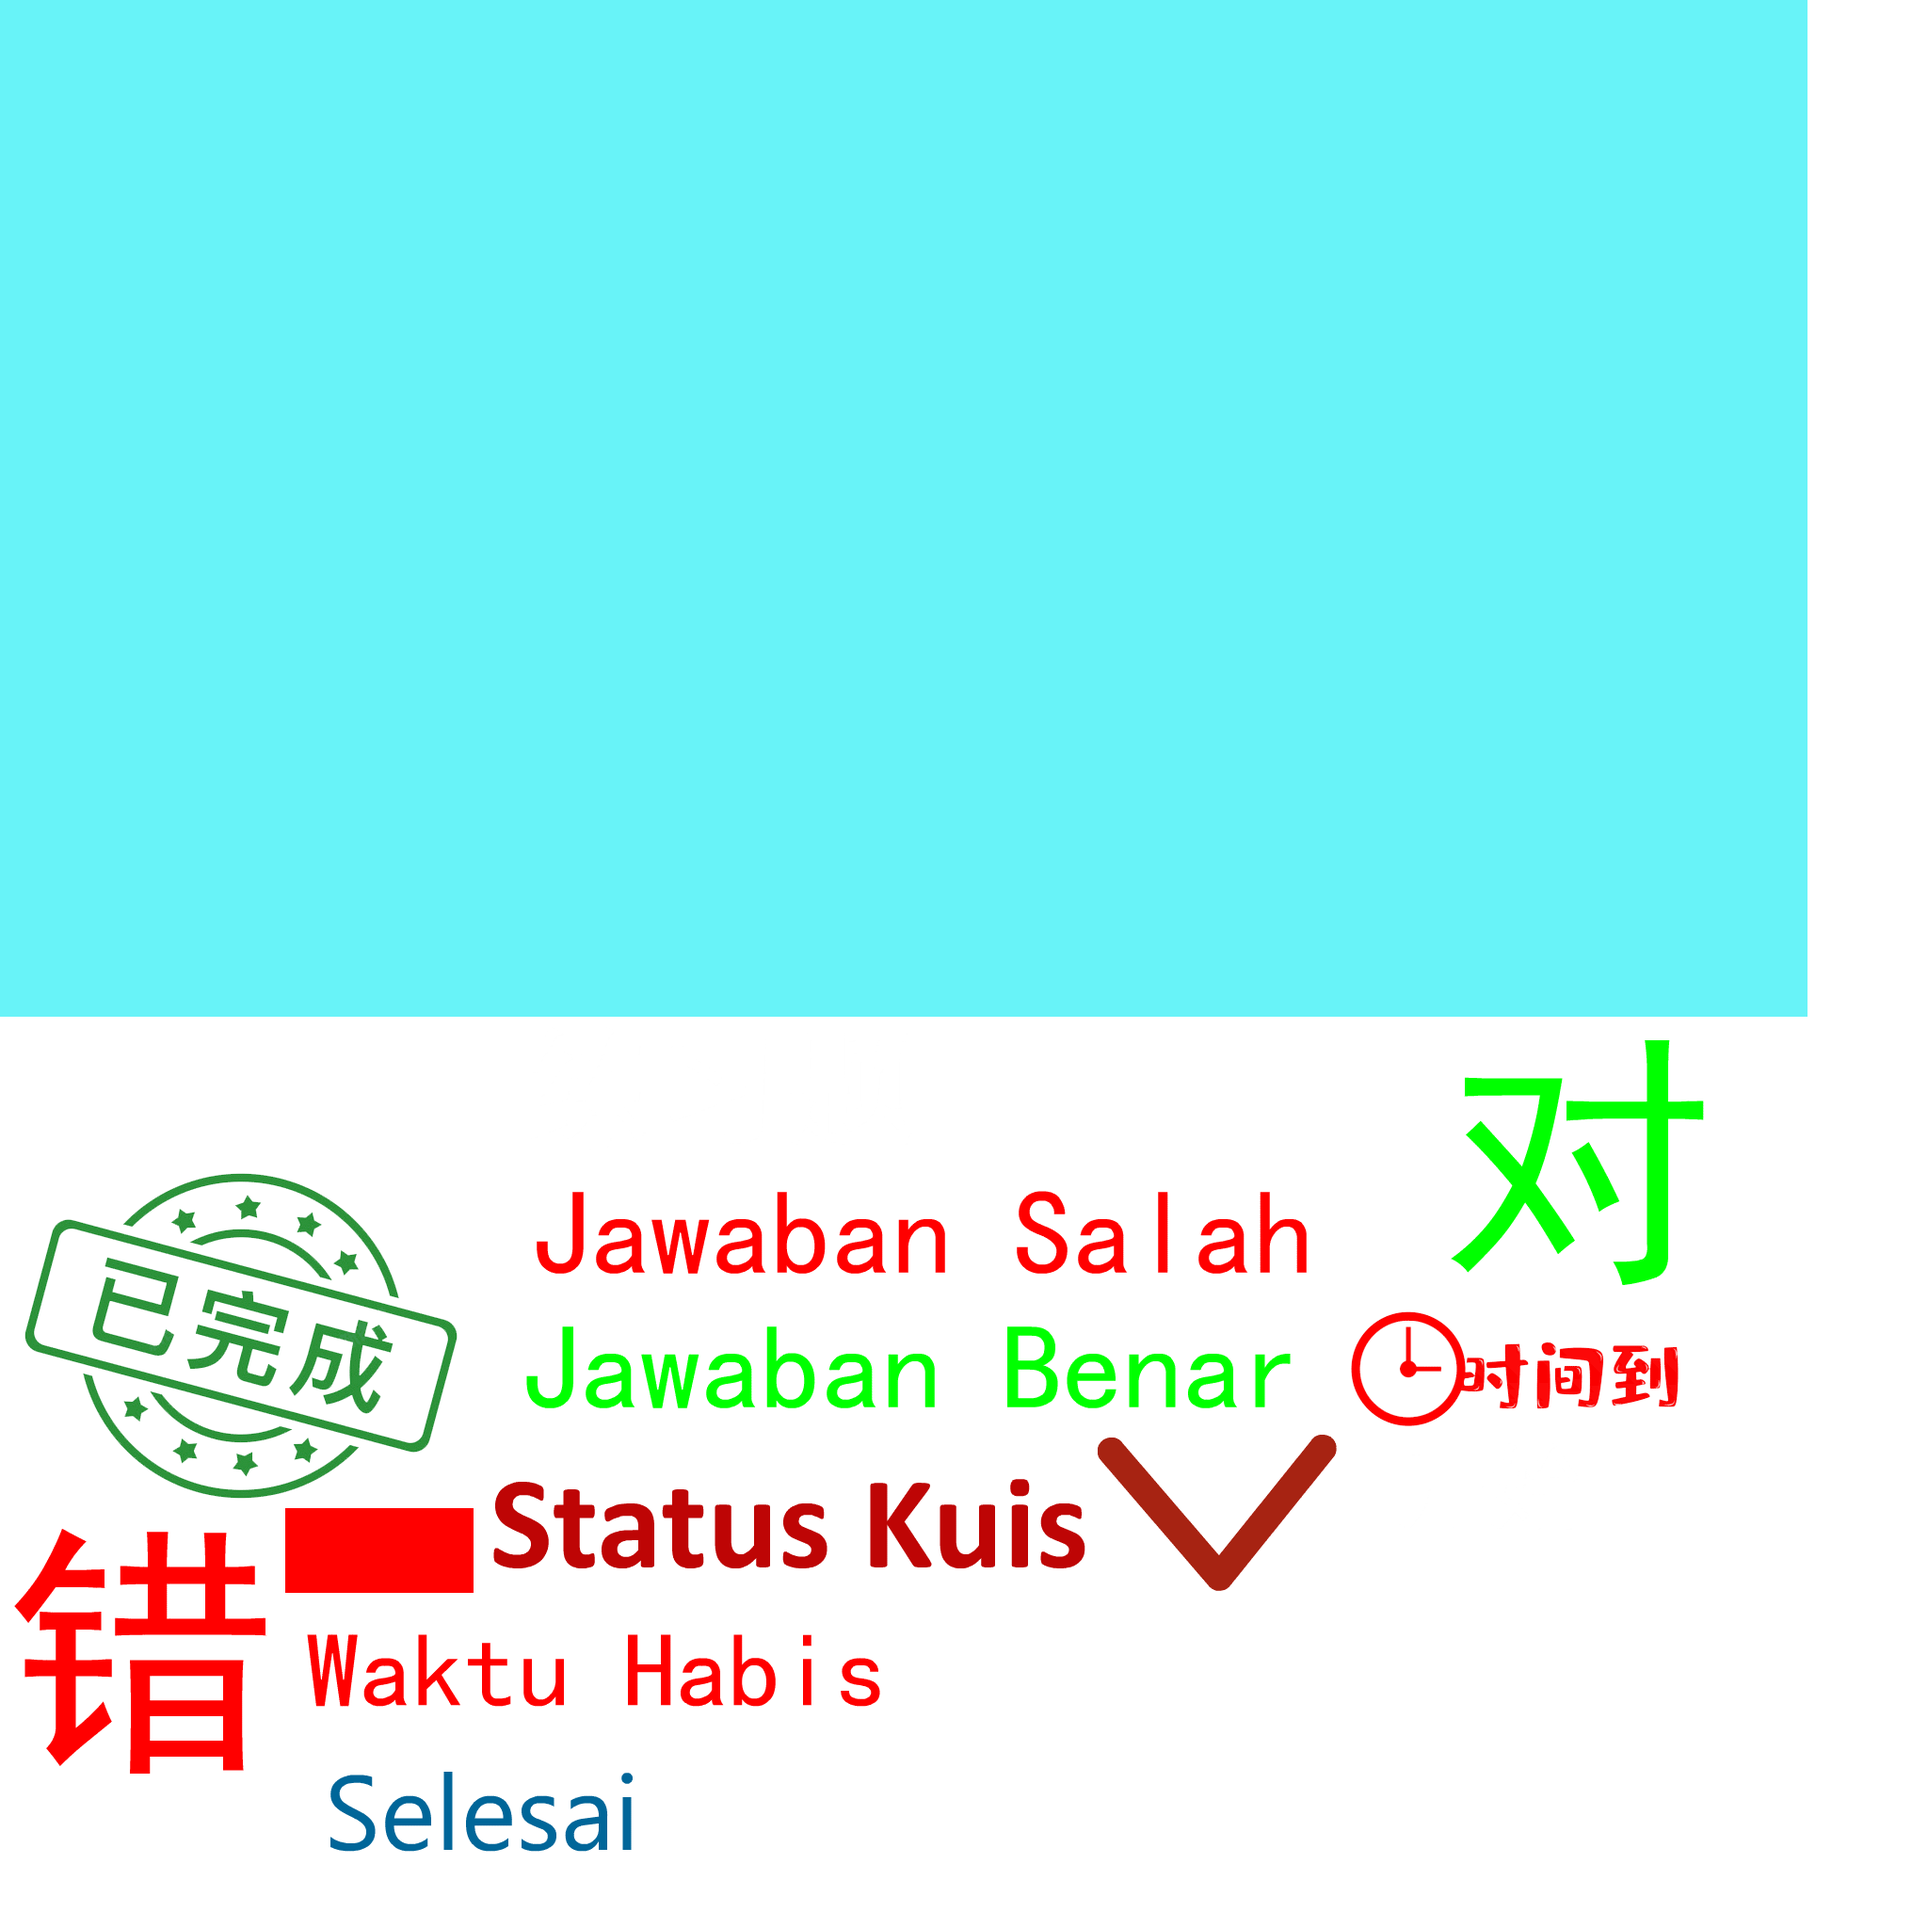
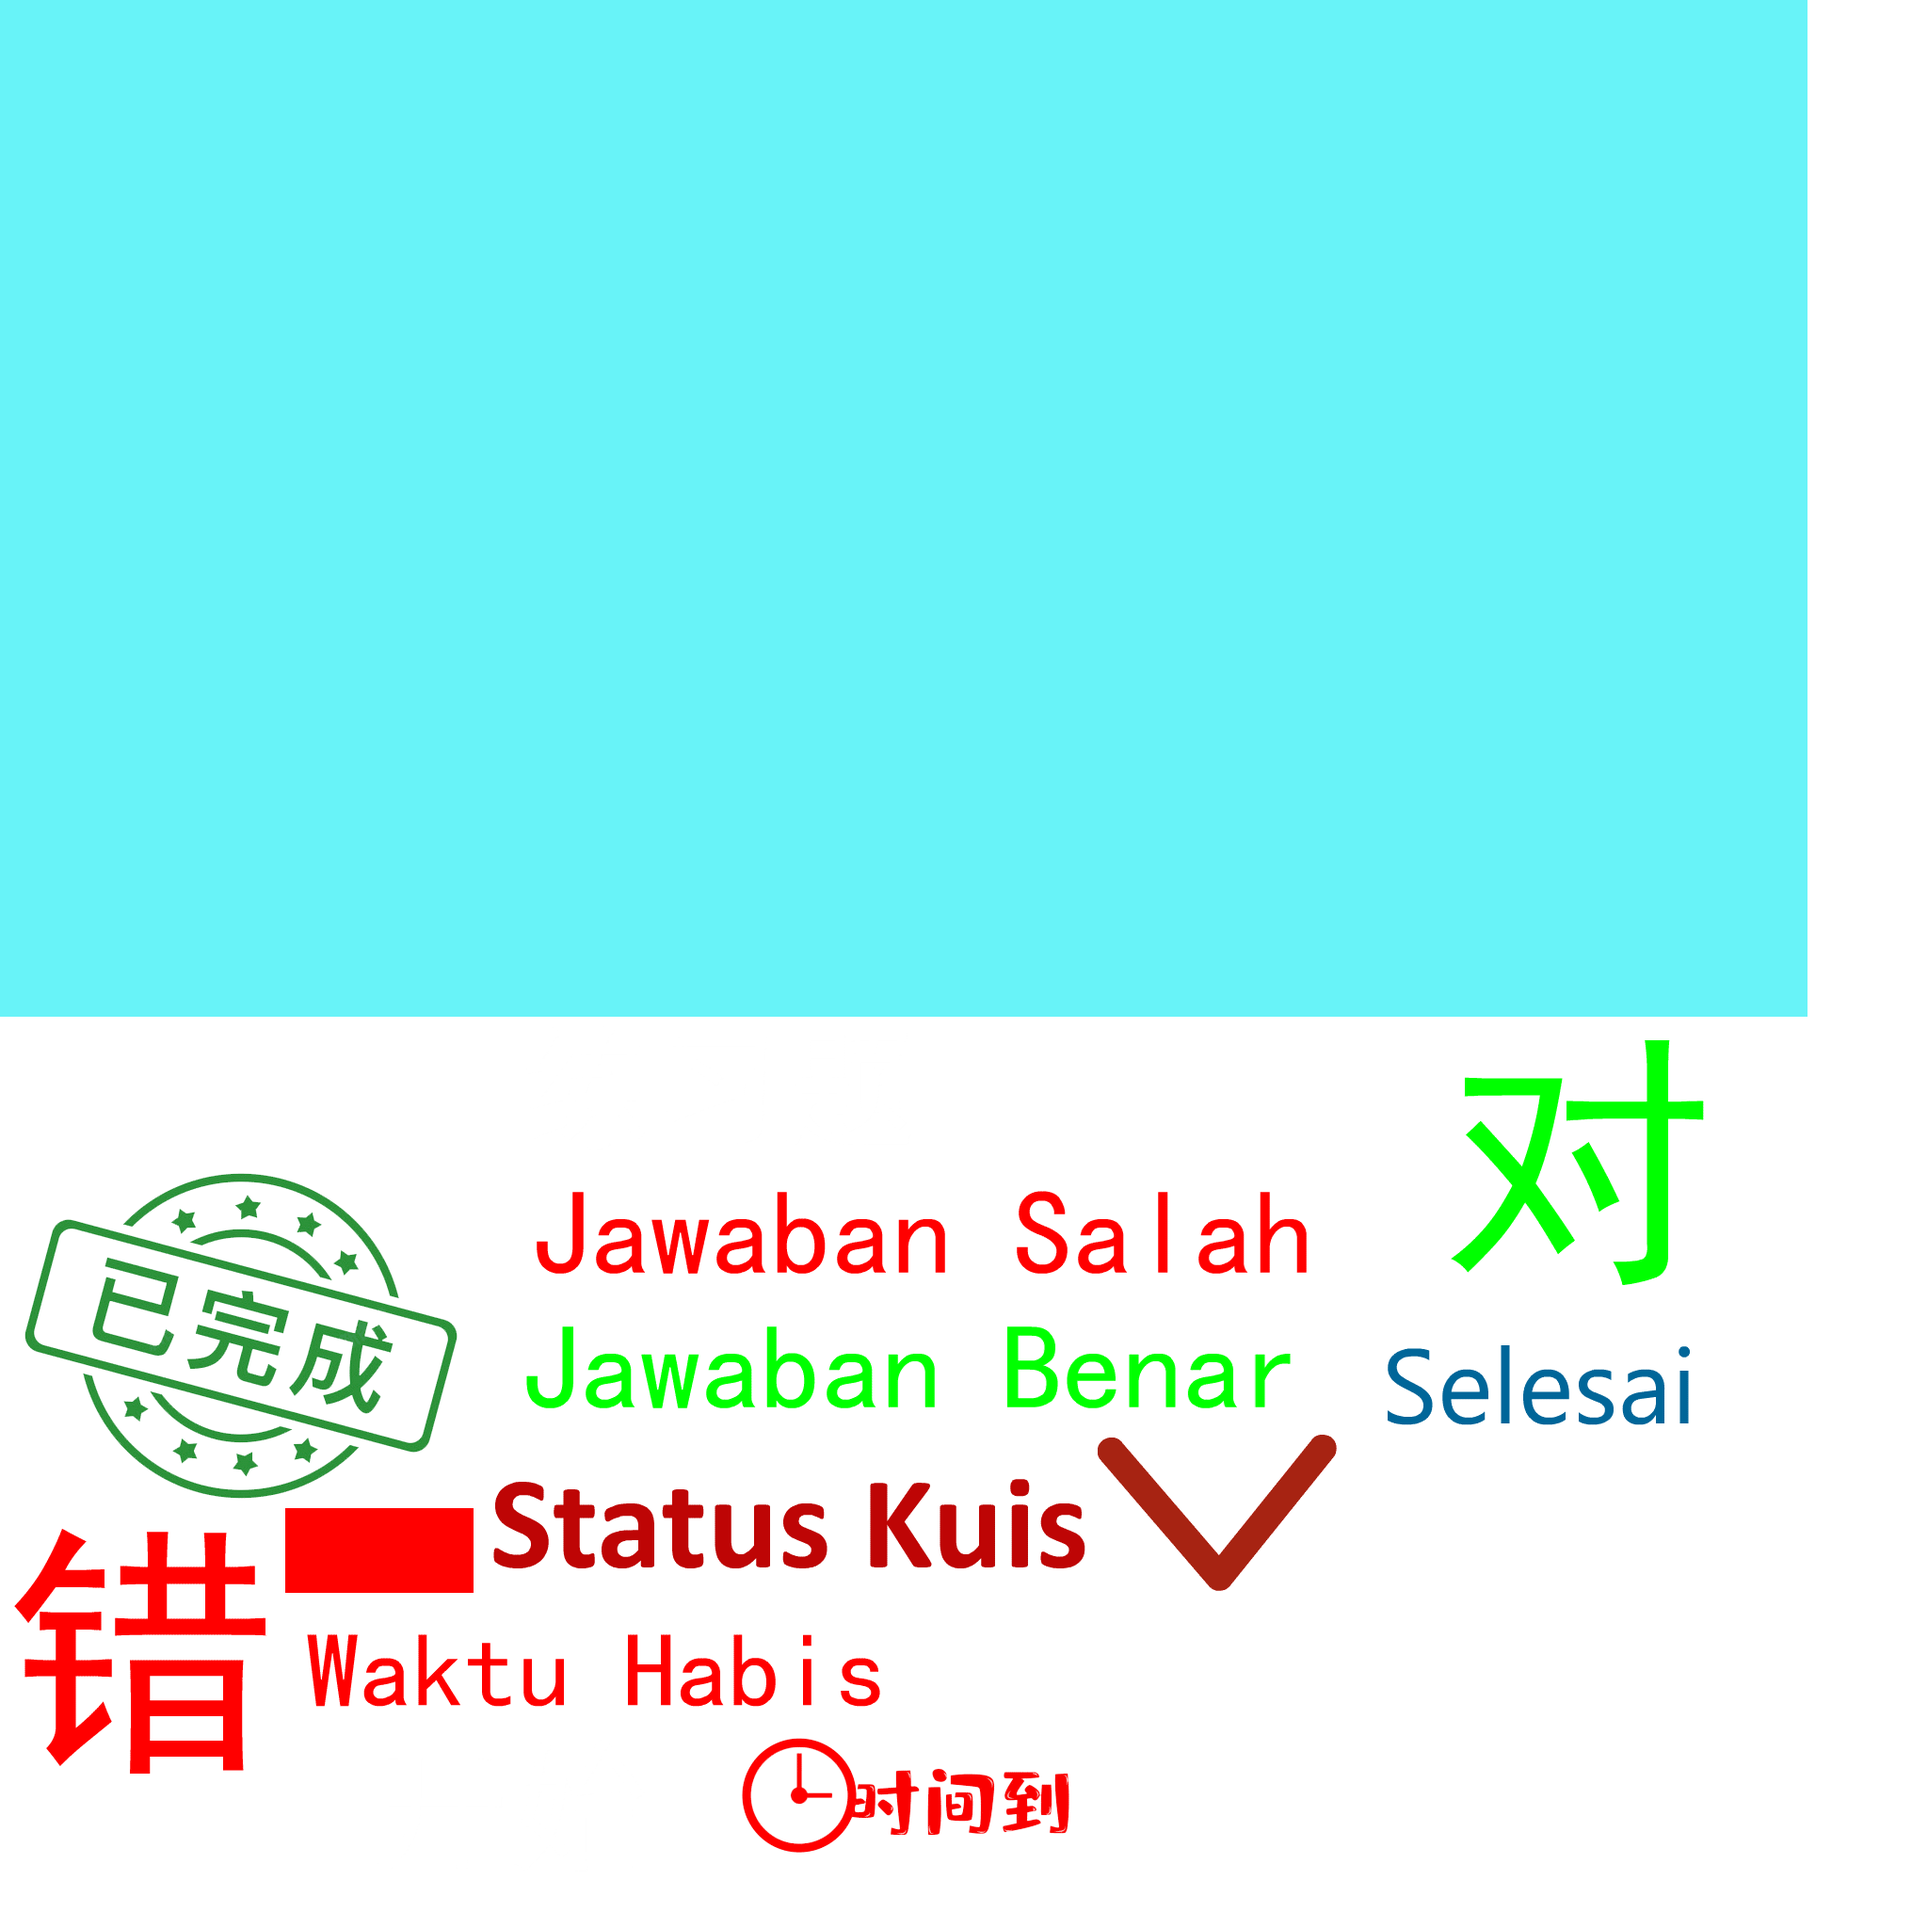
Add files via upload

Changed region(s): [[0.6875, 0.6562, 0.875, 0.75], [0.375, 0.9062, 0.5625, 0.9688], [0.1562, 0.9062, 0.3438, 0.9688]]

diff --git a/Soal音.js b/Soal音.js
@@ -3,7 +3,7 @@
 var p; // shortcut to reference prototypes
 var lib={};var ss={};var img={};
 lib.ssMetadata = [
-		{name:"Soal音_atlas_1", frames: [[1422,1525,316,112],[1166,1524,254,166],[514,1524,650,185],[303,1838,419,162],[303,1711,663,125],[514,1238,932,141],[0,1602,301,301],[514,1381,910,141],[1526,1082,301,301],[0,1082,1524,154],[303,1602,200,90],[0,0,1920,1080],[0,1238,512,362],[1426,1385,369,138]]}
+		{name:"Soal音_atlas_1", frames: [[303,1838,474,168],[1166,1524,254,166],[514,1524,650,185],[1426,1385,419,162],[303,1711,663,125],[514,1238,932,141],[0,1602,301,301],[514,1381,910,141],[1526,1082,301,301],[0,1082,1524,154],[303,1602,200,90],[0,0,1920,1080],[0,1238,512,362],[779,1838,369,138]]}
 ];
 
 
@@ -27,70 +27,70 @@ lib.ssMetadata = [
 
 
 
-(lib.CachedBmp_10 = function() {
+(lib.CachedBmp_20 = function() {
 	this.initialize(ss["Soal音_atlas_1"]);
 	this.gotoAndStop(0);
 }).prototype = p = new cjs.Sprite();
 
 
 
-(lib.CachedBmp_9 = function() {
+(lib.CachedBmp_19 = function() {
 	this.initialize(ss["Soal音_atlas_1"]);
 	this.gotoAndStop(1);
 }).prototype = p = new cjs.Sprite();
 
 
 
-(lib.CachedBmp_8 = function() {
+(lib.CachedBmp_18 = function() {
 	this.initialize(ss["Soal音_atlas_1"]);
 	this.gotoAndStop(2);
 }).prototype = p = new cjs.Sprite();
 
 
 
-(lib.CachedBmp_7 = function() {
+(lib.CachedBmp_17 = function() {
 	this.initialize(ss["Soal音_atlas_1"]);
 	this.gotoAndStop(3);
 }).prototype = p = new cjs.Sprite();
 
 
 
-(lib.CachedBmp_6 = function() {
+(lib.CachedBmp_16 = function() {
 	this.initialize(ss["Soal音_atlas_1"]);
 	this.gotoAndStop(4);
 }).prototype = p = new cjs.Sprite();
 
 
 
-(lib.CachedBmp_5 = function() {
+(lib.CachedBmp_15 = function() {
 	this.initialize(ss["Soal音_atlas_1"]);
 	this.gotoAndStop(5);
 }).prototype = p = new cjs.Sprite();
 
 
 
-(lib.CachedBmp_4 = function() {
+(lib.CachedBmp_14 = function() {
 	this.initialize(ss["Soal音_atlas_1"]);
 	this.gotoAndStop(6);
 }).prototype = p = new cjs.Sprite();
 
 
 
-(lib.CachedBmp_3 = function() {
+(lib.CachedBmp_13 = function() {
 	this.initialize(ss["Soal音_atlas_1"]);
 	this.gotoAndStop(7);
 }).prototype = p = new cjs.Sprite();
 
 
 
-(lib.CachedBmp_2 = function() {
+(lib.CachedBmp_12 = function() {
 	this.initialize(ss["Soal音_atlas_1"]);
 	this.gotoAndStop(8);
 }).prototype = p = new cjs.Sprite();
 
 
 
-(lib.CachedBmp_1 = function() {
+(lib.CachedBmp_11 = function() {
 	this.initialize(ss["Soal音_atlas_1"]);
 	this.gotoAndStop(9);
 }).prototype = p = new cjs.Sprite();
@@ -153,8 +153,8 @@ if (reversed == null) { reversed = false; }
 	cjs.MovieClip.apply(this,[props]);
 
 	// Layer_3
-	this.instance = new lib.CachedBmp_10();
-	this.instance.setTransform(-78.2,-29.85,0.5,0.5);
+	this.instance = new lib.CachedBmp_20();
+	this.instance.setTransform(-78.15,-29.8,0.3333,0.3333);
 
 	this.timeline.addTween(cjs.Tween.get(this.instance).wait(3));
 
@@ -289,7 +289,7 @@ if (reversed == null) { reversed = false; }
 	this.timeline.addTween(cjs.Tween.get({}).to({state:[{t:this.shape_2},{t:this.shape_1},{t:this.shape}]}).to({state:[{t:this.shape_4},{t:this.shape_1},{t:this.shape_3}]},1).to({state:[{t:this.shape_6},{t:this.shape_1},{t:this.shape_5}]},1).to({state:[{t:this.shape_8},{t:this.shape_1},{t:this.shape_7}]},1).to({state:[{t:this.shape_10},{t:this.shape_1},{t:this.shape_9}]},1).to({state:[{t:this.shape_12},{t:this.shape_1},{t:this.shape_11}]},1).to({state:[{t:this.shape_14},{t:this.shape_1},{t:this.shape_13}]},1).to({state:[{t:this.shape_16},{t:this.shape_1},{t:this.shape_15}]},1).to({state:[{t:this.shape_18},{t:this.shape_1},{t:this.shape_17}]},1).to({state:[{t:this.shape_20},{t:this.shape_1},{t:this.shape_19}]},1).to({state:[{t:this.shape_22},{t:this.shape_1},{t:this.shape_21}]},1).to({state:[{t:this.shape_24},{t:this.shape_1},{t:this.shape_23}]},1).to({state:[{t:this.shape_26},{t:this.shape_1},{t:this.shape_25}]},1).wait(1));
 
 	// Layer_2
-	this.instance = new lib.CachedBmp_9();
+	this.instance = new lib.CachedBmp_19();
 	this.instance.setTransform(-38.75,-44.6,0.3042,0.3042);
 
 	this.timeline.addTween(cjs.Tween.get(this.instance).wait(13));
@@ -407,25 +407,25 @@ if (reversed == null) { reversed = false; }
 	cjs.MovieClip.apply(this,[props]);
 
 	// Layer_2
-	this.instance = new lib.CachedBmp_3();
+	this.instance = new lib.CachedBmp_13();
 	this.instance.setTransform(-137.55,50.15,0.3125,0.3125);
 
-	this.instance_1 = new lib.CachedBmp_2();
+	this.instance_1 = new lib.CachedBmp_12();
 	this.instance_1.setTransform(-39.15,-70.2,0.3125,0.3125);
 
-	this.instance_2 = new lib.CachedBmp_5();
+	this.instance_2 = new lib.CachedBmp_15();
 	this.instance_2.setTransform(-141.15,49.25,0.3125,0.3125);
 
-	this.instance_3 = new lib.CachedBmp_4();
+	this.instance_3 = new lib.CachedBmp_14();
 	this.instance_3.setTransform(-39.15,-70.2,0.3125,0.3125);
 
-	this.instance_4 = new lib.CachedBmp_6();
+	this.instance_4 = new lib.CachedBmp_16();
 	this.instance_4.setTransform(-92.05,58.3,0.3125,0.3125);
 
 	this.instance_5 = new lib.waktuhabis();
 	this.instance_5.setTransform(-151,-73,0.8287,0.8505);
 
-	this.instance_6 = new lib.CachedBmp_7();
+	this.instance_6 = new lib.CachedBmp_17();
 	this.instance_6.setTransform(-63.55,52,0.3125,0.3125);
 
 	this.instance_7 = new lib.selesai();
@@ -445,7 +445,7 @@ if (reversed == null) { reversed = false; }
 	this.timeline.addTween(cjs.Tween.get({}).to({state:[]}).to({state:[{t:this.shape_1},{t:this.shape}]},1).wait(4));
 
 	// Layer_1
-	this.instance_8 = new lib.CachedBmp_8();
+	this.instance_8 = new lib.CachedBmp_18();
 	this.instance_8.setTransform(-93.3,-33,0.3125,0.3125);
 
 	this.timeline.addTween(cjs.Tween.get(this.instance_8).to({_off:true},1).wait(4));
@@ -529,26 +529,26 @@ if (reversed == null) { reversed = false; }
 
 	this.okBtn = new lib.btntombolhijau();
 	this.okBtn.name = "okBtn";
-	this.okBtn.setTransform(-0.1,88.1,0.9145,0.9217,0,0,0,0,0.1);
+	this.okBtn.setTransform(1.55,88.15,1.097,1.1055,0,0,0,-0.1,0.2);
 	new cjs.ButtonHelper(this.okBtn, 0, 1, 1);
 
 	this.shape = new cjs.Shape();
[1 lines of base64/hex data omitted]
-	this.shape.setTransform(-0.075,-15.1375);
[1 lines of base64/hex data omitted]
+	this.shape.setTransform(-0.075,-14.525);
 
 	this.shape_1 = new cjs.Shape();
[2 lines of base64/hex data omitted]
 	this.shape_1.setTransform(0.025,-8.275);
 
 	this.shape_2 = new cjs.Shape();
[2 lines of base64/hex data omitted]
 	this.shape_2.setTransform(-0.1,-13.9);
 
 	this.timeline.addTween(cjs.Tween.get({}).to({state:[{t:this.shape_2},{t:this.shape_1},{t:this.shape},{t:this.okBtn},{t:this.judulTxt},{t:this.pesanTxt}]}).wait(1));
 
 	this._renderFirstFrame();
 
-}).prototype = getMCSymbolPrototype(lib.popupMC, new cjs.Rectangle(-211.1,-129.4,422.29999999999995,266.8), null);
+}).prototype = getMCSymbolPrototype(lib.popupMC, new cjs.Rectangle(-211.1,-129.4,422.29999999999995,276.6), null);
 
 
 (lib.kuisMC = function(mode,startPosition,loop,reversed) {
@@ -680,7 +680,7 @@ if (reversed == null) { reversed = false; }
 					["Dia punya 1 buah meja.", "他有一张桌子。", "他有一把椅子。", "他有一个书包。", "他有一本书。"]];
 		
 		var ob = this;
-		mpi.kuis("kuisMC", soal, 10, selesaiKuis);
+		mpi.kuis("kuisMC", soal, 2, selesaiKuis);
 		ob.kuisMC.opsi = "A";
 		ob.kuisMC.suaraSoal = "bgm";
 		/* untuk suara kuis, pastikan suara memiliki linkage
@@ -708,10 +708,10 @@ if (reversed == null) { reversed = false; }
 	// asset
 	this.mulaiBtn = new lib.tombol_mulai();
 	this.mulaiBtn.name = "mulaiBtn";
-	this.mulaiBtn.setTransform(732.4,524);
+	this.mulaiBtn.setTransform(732.4,524,1.5,1.5);
 	new cjs.ButtonHelper(this.mulaiBtn, 0, 1, 2);
 
-	this.instance = new lib.CachedBmp_1();
+	this.instance = new lib.CachedBmp_11();
 	this.instance.setTransform(354.2,229.2,0.5,0.5);
 
 	this.timerKuis = new lib.timerMC2();
@@ -744,7 +744,7 @@ lib.properties = {
 	color: "#FFFFFF",
 	opacity: 1.00,
 	manifest: [
-		{src:"images/Soal音_atlas_1.png?1727450867652", id:"Soal音_atlas_1"}
+		{src:"images/Soal音_atlas_1.png?1727664355981", id:"Soal音_atlas_1"}
 	],
 	preloads: []
 };

diff --git a/Soal音.html b/Soal音.html
@@ -22,7 +22,7 @@
   }
 </style>
 <script src="https://code.createjs.com/1.0.0/createjs.min.js"></script>
-<script src="Soal音.js?1727450867780"></script>
+<script src="Soal音.js?1727664356095"></script>
 <script type='text/javascript' src='libs/mpiLib.js'></script>
 <script>
 var canvas, stage, exportRoot, anim_container, dom_overlay_container, fnStartAnimation;
